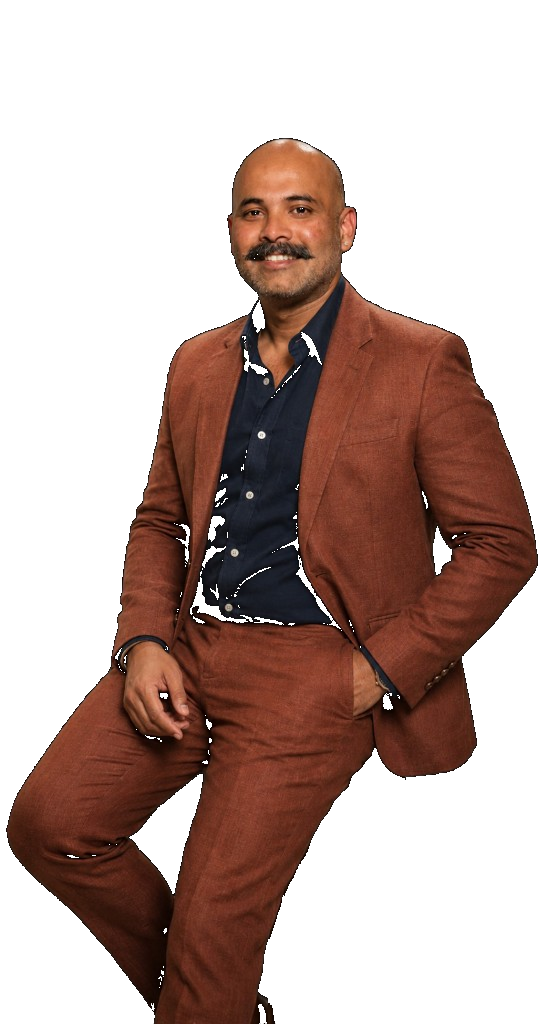
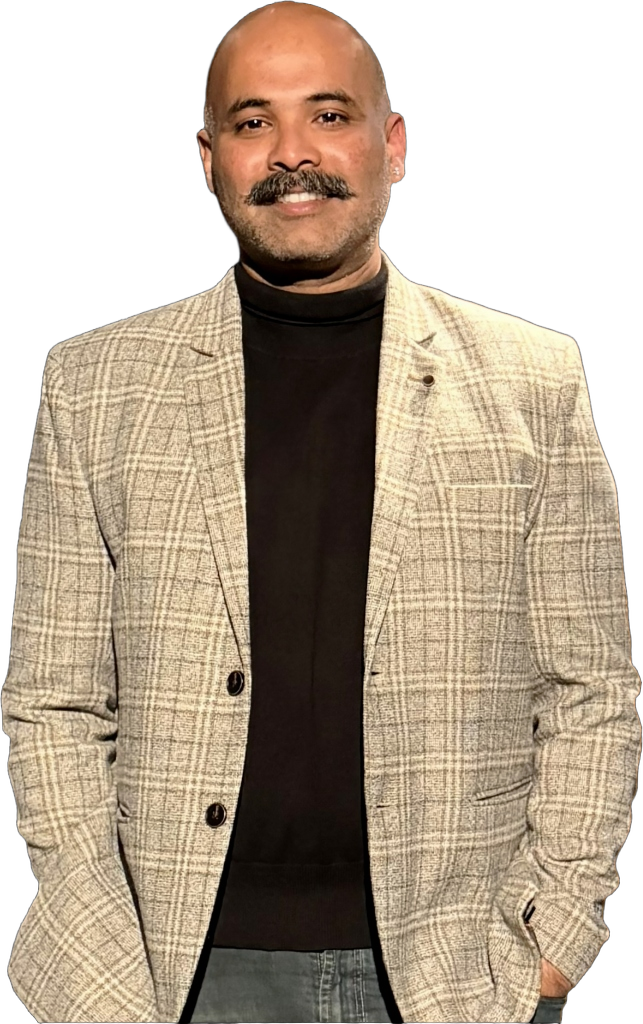
Update founder cutout image to newly uploaded portrait

diff --git a/src/components/FounderQuoteCard.tsx b/src/components/FounderQuoteCard.tsx
@@ -126,7 +126,7 @@ export function FounderQuoteCard({
 
       {/* Transparent Cut-out Portrait Layered ABOVE Panels */}
       <img
-        src={photo}
+        src={`${photo}?v=2`}
         alt={`${nameAlt}, ${role.toLowerCase()}`}
         className="portrait absolute z-[2] select-none pointer-events-none"
         style={{
